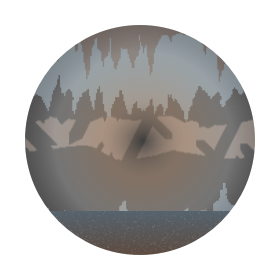
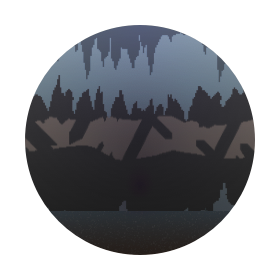
updated characters to reflect levels; updated bg

diff --git a/frontend/src/components/FighterStyles.css b/frontend/src/components/FighterStyles.css
@@ -51,3 +51,67 @@
 .fighter-avatar-character-knight {
   background-image: url("../assets/fighter_knight.png");
 }
+
+.fighter-avatar-character-viking-level-1 {
+  background-image: url("../assets/fighter_viking_1.png");
+}
+
+.fighter-avatar-character-undead-level-1 {
+  background-image: url("../assets/fighter_undead_1.png");
+}
+
+.fighter-avatar-character-demon-level-1 {
+  background-image: url("../assets/fighter_demon_1.png");
+}
+
+.fighter-avatar-character-knight-level-1 {
+  background-image: url("../assets/fighter_knight_1.png");
+}
+
+.fighter-avatar-character-viking-level-2 {
+  background-image: url("../assets/fighter_viking_2.png");
+}
+
+.fighter-avatar-character-undead-level-2 {
+  background-image: url("../assets/fighter_undead_2.png");
+}
+
+.fighter-avatar-character-demon-level-2 {
+  background-image: url("../assets/fighter_demon_2.png");
+}
+
+.fighter-avatar-character-knight-level-2 {
+  background-image: url("../assets/fighter_knight_2.png");
+}
+
+.fighter-avatar-character-viking-level-3 {
+  background-image: url("../assets/fighter_viking_3.png");
+}
+
+.fighter-avatar-character-undead-level-3 {
+  background-image: url("../assets/fighter_undead_3.png");
+}
+
+.fighter-avatar-character-demon-level-3 {
+  background-image: url("../assets/fighter_demon_3.png");
+}
+
+.fighter-avatar-character-knight-level-3 {
+  background-image: url("../assets/fighter_knight_3.png");
+}
+
+.fighter-avatar-character-viking-level-4 {
+  background-image: url("../assets/fighter_viking_4.png");
+}
+
+.fighter-avatar-character-undead-level-4 {
+  background-image: url("../assets/fighter_undead_4.png");
+}
+
+.fighter-avatar-character-demon-level-4 {
+  background-image: url("../assets/fighter_demon_4.png");
+}
+
+.fighter-avatar-character-knight-level-4 {
+  background-image: url("../assets/fighter_knight_4.png");
+}

diff --git a/frontend/src/components/FighterAvatar.tsx b/frontend/src/components/FighterAvatar.tsx
@@ -14,7 +14,12 @@ export default function FighterAvatar({ fighter }: { fighter: Fighter }) {
     (attr) => attr.trait_type === "Type"
   );
 
-  if (!locationTrait || !characterTypeTrait) return null;
+  const characterLevelTrait = fighter.attributes.find(
+    (attr) => attr.trait_type === "Level"
+  );
+
+  if (!locationTrait || !characterTypeTrait || !characterLevelTrait)
+    return null;
 
   const location =
     parseInt(locationTrait.value) === 0
@@ -25,6 +30,9 @@ export default function FighterAvatar({ fighter }: { fighter: Fighter }) {
 
   const characterType = characterTypeTrait.value.toLowerCase();
 
+  const level = parseInt(characterLevelTrait.value);
+  const levelImage = level < 25 ? 1 : level < 50 ? 2 : level < 75 ? 3 : 4;
+
   return (
     <>
       <div
@@ -32,7 +40,7 @@ export default function FighterAvatar({ fighter }: { fighter: Fighter }) {
       ></div>
       <div className="fighter-image-layer">
         <div
-          className={`fighter-avatar-character fighter-avatar-character-${characterType}`}
+          className={`fighter-avatar-character fighter-avatar-character-${characterType}-level-${levelImage}`}
         ></div>
       </div>
     </>

diff --git a/frontend/src/components/FighterCard.tsx b/frontend/src/components/FighterCard.tsx
@@ -81,7 +81,7 @@ export const FighterCard = ({ tokenID }: { tokenID: number }) => {
         <button onClick={finishMint}>Reveal Fighter</button>
       )}
       <Link to={`/hero/${tokenID}`}>
-        {cardLoading ? (
+        {cardLoading || !fighter ? (
           <div className="fc-loading-container">
             <Loading />
           </div>
